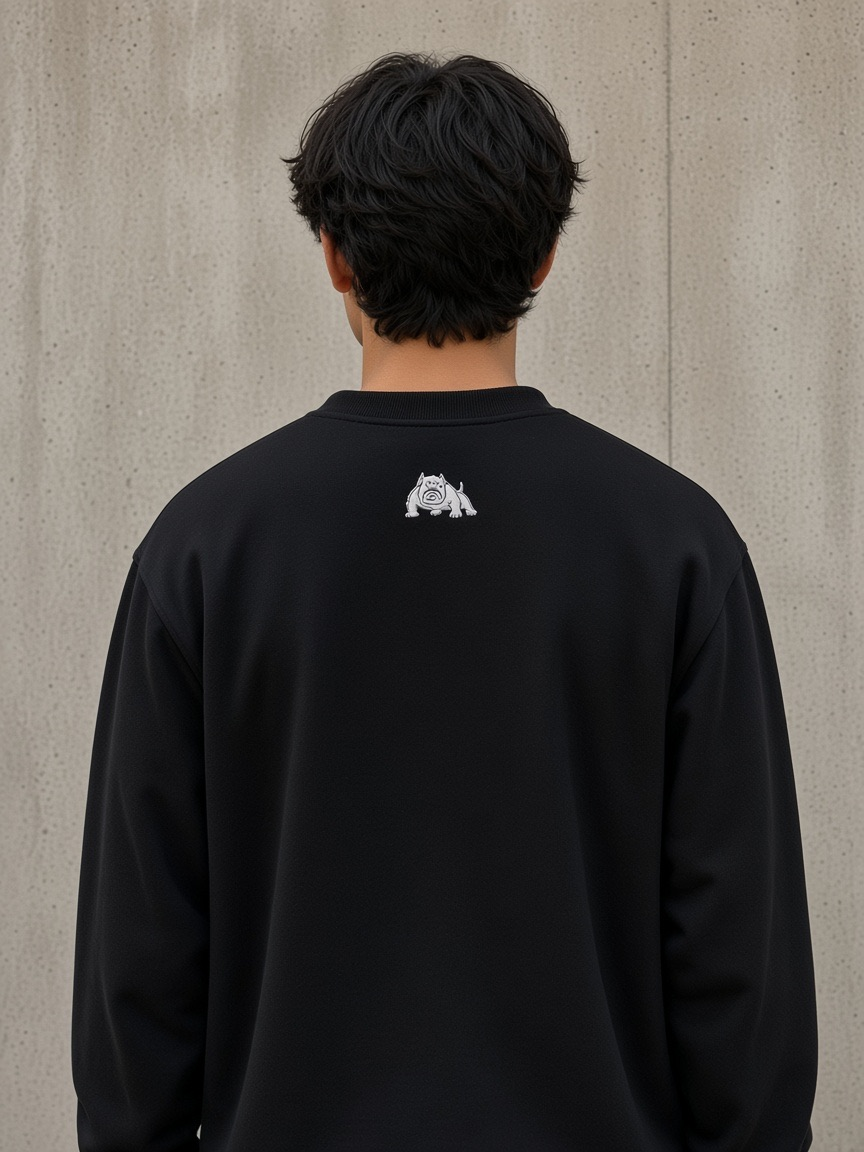
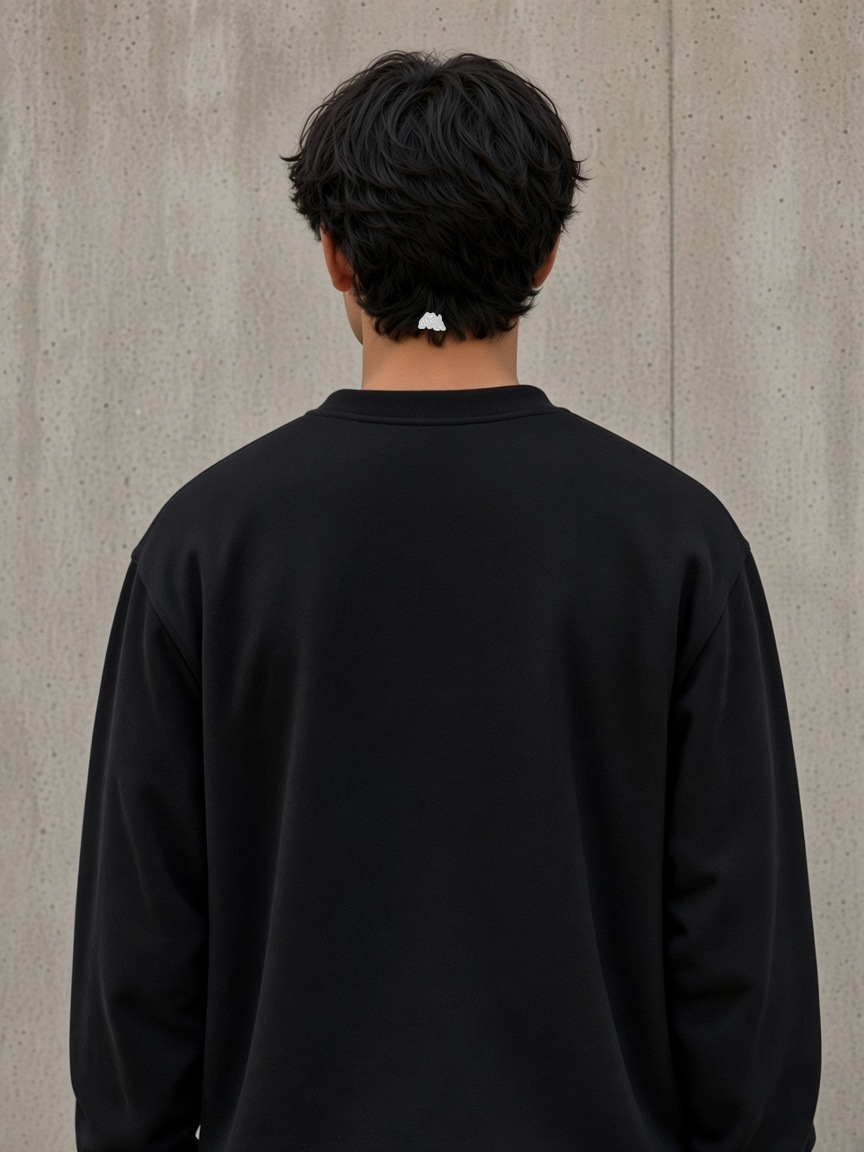
Specify the Mark embroidery as 1×1″ and refresh lookbook marks.

diff --git a/js/site-config.js b/js/site-config.js
@@ -37,7 +37,7 @@
     hero: {
       kicker: '',
       headline: 'Built from the breed.',
-      subhead: 'Oversized heavyweight streetwear. The exotic bully — compact, stubborn, unhurried — is the stance behind the cut, the gothic print, and the small embroidered mark.',
+      subhead: 'Oversized heavyweight streetwear. The exotic bully — compact, stubborn, unhurried — is the stance behind the cut, the gothic print, and the 1×1″ embroidered mark.',
       image: worn('beware-hood', 'black'),
       fit: 'cover',
       ctaPrimary: { label: 'Shop the drop', href: 'shop.html' },
@@ -45,10 +45,10 @@
     },
     about: {
       headline: 'Two ways to wear it.',
-      intro: 'BVLLY is a clothing label. The line takes its essence from the exotic bully: short, thick, unbothered. That stance shows up in the oversized cut, the silver gothic type, and a small embroidered mark.',
+      intro: 'BVLLY is a clothing label. The line takes its essence from the exotic bully: short, thick, unbothered. That stance shows up in the oversized cut, the silver gothic type, and a 1×1″ embroidered mark.',
       body: [
         'The Beware line is loud on purpose: Old English type on the chest — “Bully BEWARE!” — and “Never-mind the dog, beware the owner” on the back of the hood.',
-        'The Mark line is the other temperature: a small embroidered exotic bulldog on the left chest, no slogan. Same stance. Quieter.',
+        'The Mark line is the other temperature: a 1×1″ embroidered exotic bulldog on the left chest, no slogan. Same stance. Quieter.',
         'Every piece runs in pink and black — cut oversized. Checkout is not live yet; join the list if you want a size.'
       ],
       image: worn('mark-tee', 'black'),
@@ -63,7 +63,7 @@
       {
         id: 'mark',
         name: 'The Mark',
-        tagline: 'Small embroidered bully. Pink and black.'
+        tagline: '1×1″ embroidered bully. Pink and black.'
       },
       {
         id: 'monogram',
@@ -73,7 +73,7 @@
       {
         id: 'accessories',
         name: 'Accessories',
-        tagline: 'The mark, off the chest. Pink and black.'
+        tagline: 'The 1×1″ mark, off the chest. Pink and black.'
       }
     ],
     products: [
@@ -87,7 +87,7 @@
           { name: 'Black', slug: 'black', hex: '#111111', image: worn('bb-crew', 'black') }
         ],
         views: ['images/lookbook/bb-crew-black-back.jpg'],
-        description: 'Oversized heavyweight crewneck. Front: a large silver interlocking BB. Back: a small white bully mark at the nape. Black.',
+        description: 'Oversized heavyweight crewneck. Front: a large silver interlocking BB. Back: a 1×1″ white embroidered bully mark at the nape. Black.',
         image: worn('bb-crew', 'black'),
         fit: 'cover',
         featured: true
@@ -141,7 +141,7 @@
         price: 54,
         sizes: ['S', 'M', 'L', 'XL', 'XXL'],
         colors: wornColors('mark-tee'),
-        description: 'Heavyweight crew. Small embroidered exotic bulldog on the left chest. No slogan. The quiet half of the drop. Pink and black.',
+        description: 'Heavyweight crew. 1×1″ embroidered exotic bulldog on the left chest. No slogan. The quiet half of the drop. Pink and black.',
         image: worn('mark-tee', 'black'),
         fit: 'cover',
         featured: true
@@ -153,7 +153,7 @@
         price: 118,
         sizes: ['S', 'M', 'L', 'XL', 'XXL'],
         colors: wornColors('mark-hood'),
-        description: 'Oversized hoodie. No chest slogan — just the embroidered mark on the left. Pink and black.',
+        description: 'Oversized hoodie. No chest slogan — just the 1×1″ embroidered mark on the left chest. Pink and black.',
         image: worn('mark-hood', 'black'),
         fit: 'cover',
         featured: true
@@ -165,7 +165,7 @@
         price: 38,
         sizes: ['One size'],
         colors: wornColors('mark-cap'),
-        description: 'Structured cap. Embroidered exotic bulldog on the front panel. Pink and black.',
+        description: 'Structured cap. 1×1″ embroidered exotic bulldog on the front panel. Pink and black.',
         image: worn('mark-cap', 'black'),
         fit: 'cover',
         featured: false

diff --git a/about.html b/about.html
@@ -18,7 +18,7 @@
     <div class="page-header">
       <div class="container">
         <h1>About BVLLY</h1>
-        <p>A clothing label drawn from the exotic bully. Gothic print and a small embroidered mark, in pink and black.</p>
+        <p>A clothing label drawn from the exotic bully. Gothic print and a 1×1″ embroidered mark, in pink and black.</p>
       </div>
     </div>
 

diff --git a/index.html b/index.html
@@ -70,7 +70,7 @@
           </article>
           <article>
             <h3>The Mark</h3>
-            <p>A small embroidered exotic bulldog. Left chest. No slogan. Pink and black.</p>
+            <p>A 1×1″ embroidered exotic bulldog. Left chest. No slogan. Pink and black.</p>
           </article>
         </div>
       </div>
